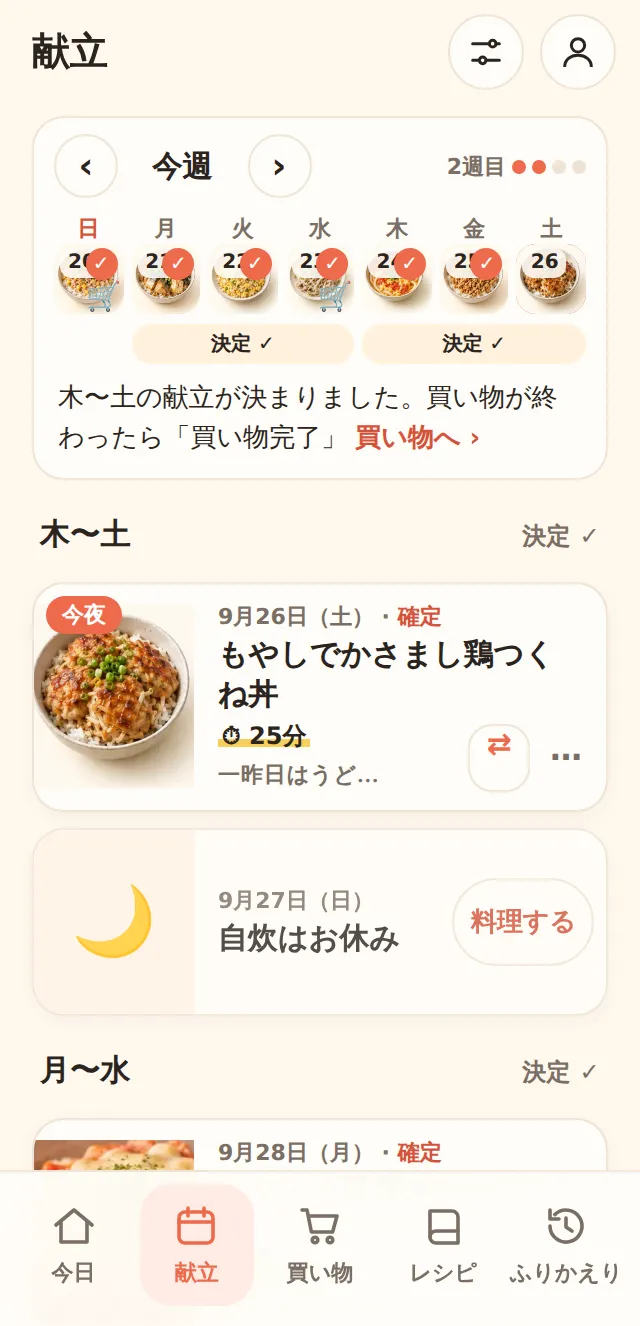
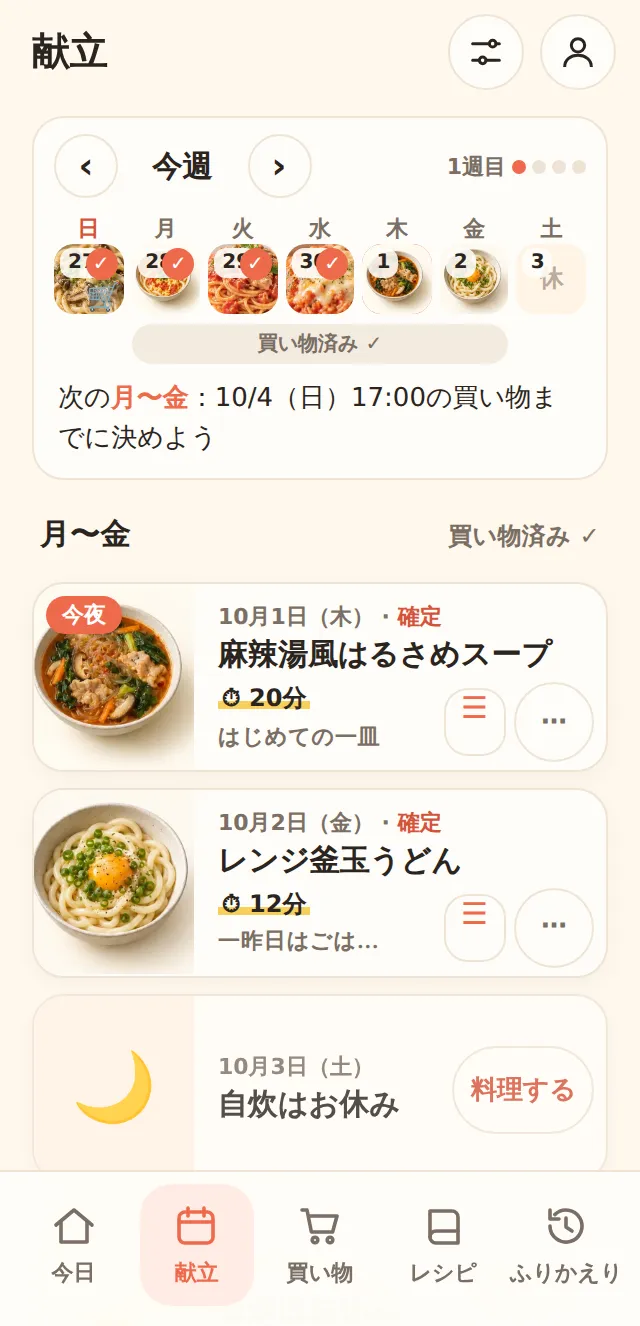
LP: match the current app
- Rhythms are listed as 平日5日（おすすめ）・1週間・3日ずつ, and plans run until the next shopping trip instead of three days.
- 選択 now covers untried and favourite dishes. Freshness ordering is included, and the skill check uses a photo plus the 10-question test.
- A new 「続けられる工夫」 section covers four features: eating out without wasting groceries, perishables first, 定番フォルダ with a ranking and weekday pins, and XP and badges.
- The old swipe persona quiz is replaced by the dinner type from setup (8 types, 6 stats, new art). It links to ?start=quick.
- Pricing no longer promises "free forever". The beta is free with starter tickets. A paid plan with a free trial is planned, never charged without consent, and backup export is always available.
- FAQ: families of 1–5+ are supported (dinners only for now), a new 作れない日 entry is added, the iPhone/Android home-screen steps are covered, and Google login is mentioned. The waitlist gains a 5人以上 option.
- The Today and Plan screenshots are retaken from the current app. The app's ⋯ button is a circle now instead of an oval.

Claude-Session: https://claude.ai/code/session_01StTAX8i8GaRevC5aWo9T5p

diff --git a/lp/index.html b/lp/index.html
@@ -4,7 +4,7 @@
     <meta charset="utf-8" />
     <meta name="viewport" content="width=device-width, initial-scale=1, viewport-fit=cover" />
     <title>リピごち | かぶらない、飽きない、また食べたい。ふたりの夜ごはん</title>
-    <meta name="description" content="最近食べたものと、ふたりの「また食べたい」を覚えて、買い物の日に合わせて、かぶらない夜ごはんを。スマホ1画面の買い物リスト、SNSのレシピ動画の保存まで。ふたり暮らし・ひとり暮らしの夜ごはんアプリ「リピごち」。公開のお知らせをメールで受け取れます。" />
+    <meta name="description" content="最近食べたもの、ふたりの「また食べたい」、料理の腕前を覚えて、買い物の日に合わせて、かぶらない夜ごはんを。傷みやすい食材から先に使う献立、スマホ1画面の買い物リスト、SNSのレシピ動画の保存まで。ひとり暮らしから家族まで使える夜ごはんアプリ「リピごち」。公開のお知らせをメールで受け取れます。" />
     <meta property="og:title" content="リピごち | かぶらない、飽きない、また食べたい。" />
     <meta property="og:description" content="最近食べたものと、ふたりの「また食べたい」を覚えて、買い物の日に合わせて、かぶらない夜ごはんを。いまのβ版は無料。" />
     <meta property="og:type" content="website" />
@@ -16,21 +16,21 @@
     <meta property="og:image:type" content="image/jpeg" />
     <meta name="twitter:card" content="summary_large_image" />
     <meta name="twitter:image" content="https://165cm.github.io/matagochi/lp/assets/ogp-20260924.jpg" />
-    <meta name="twitter:image:alt" content="今夜、これ食べたい。3問で、3日分の夜ごはんと買い物リスト" />
+    <meta name="twitter:image:alt" content="今夜、これ食べたい。次の買い物までの夜ごはんと、スマホ1画面の買い物リスト" />
     <meta name="theme-color" content="#fff8ee" />
     <link rel="canonical" href="https://165cm.github.io/matagochi/lp/" />
-    <link rel="icon" href="../icons/favicon-32.png?v=20260927-ratio1" />
+    <link rel="icon" href="../icons/favicon-32.png?v=20260927-lp1" />
     <link rel="preconnect" href="https://fonts.googleapis.com" />
     <link rel="preconnect" href="https://fonts.gstatic.com" crossorigin />
     <link rel="stylesheet" href="https://fonts.googleapis.com/css2?family=Zen+Maru+Gothic:wght@500;700;900&family=Klee+One:wght@600&display=swap" />
     <link rel="preload" as="image" href="assets/screen-today.webp" />
-    <link rel="stylesheet" href="styles.css?v=20260927-ratio1" />
+    <link rel="stylesheet" href="styles.css?v=20260927-lp1" />
   </head>
   <body>
     <header class="site-header">
       <div class="container header-inner">
         <a class="brand" href="#top" aria-label="リピごち トップへ">
-          <img class="brand-icon" src="../icons/icon-192.png?v=20260927-ratio1" width="40" height="40" alt="" /><span class="logo">リピごち</span>
+          <img class="brand-icon" src="../icons/icon-192.png?v=20260927-lp1" width="40" height="40" alt="" /><span class="logo">リピごち</span>
           <span class="hand brand-note">また、これ食べたい。</span>
         </a>
         <a class="button button-small" href="#waitlist"><span class="wide-only">公開の</span>お知らせ登録</a>
@@ -56,9 +56,9 @@
             <p class="beta-link small"><a class="text-link" href="../?start=quick">いまのβ版を、無料で試してみる →</a></p>
           </div>
           <div class="hero-visual">
-            <p class="hand note note-a" aria-hidden="true">一昨日うどんなら、<br />今日はごはんもの。</p>
+            <p class="hand note note-a" aria-hidden="true">一昨日パスタなら、<br />今日はごはんもの。</p>
             <figure class="phone phone-hero">
-              <img src="assets/screen-today.webp" width="640" height="1326" alt="リピごちの今日の画面。今夜の一品「もやしでかさまし鶏つくね丼」と、理由「一昨日はうどんだったので、ごはんものに」、作り方を見るボタン" fetchpriority="high" /><figcaption>いまのβ版の画面です</figcaption>
+              <img src="assets/screen-today.webp" width="640" height="1326" alt="リピごちの今日の画面。今夜の一品「豚こまキャベツ丼」と、理由「一昨日はパスタだったので、ごはんものに」、作り方を見るボタンと、今日は外食・中食にするボタン" fetchpriority="high" /><figcaption>いまのβ版の画面です</figcaption>
             </figure>
             <span class="sticker sticker-time" aria-hidden="true">🍜 → 🍚 かぶらない</span>
             <span class="sticker sticker-list" aria-hidden="true">😋 ふたりとも好き</span>
@@ -119,7 +119,7 @@
             <article>
               <span class="promise-icon" aria-hidden="true">🍝→🍚</span>
               <h3>最近食べたものを覚える</h3>
-              <p>麺・ごはん、肉・魚、和・洋・中。続かないように、ほどよく巡る3日分を提案します。</p>
+              <p>麺・ごはん、肉・魚、和・洋・中。続かないように、次の買い物までの献立をほどよく巡らせます。</p>
               <p class="hand promise-note">一昨日パスタなら、今日はごはんもの。</p>
             </article>
             <article>
@@ -146,12 +146,12 @@
           <h2 class="center">3ステップで、<span class="marker nobr">今夜が決まる。</span></h2>
 
           <article class="step">
-            <figure class="phone"><img src="assets/screen-plan.webp" width="640" height="1326" alt="献立の画面。今週のカレンダーに決まった料理の写真が並び、その下に買い物ごとの献立が1行ずつ並ぶ" loading="lazy" /><figcaption>いまのβ版の画面です</figcaption></figure>
+            <figure class="phone"><img src="assets/screen-plan.webp" width="640" height="1326" alt="献立の画面。今週のカレンダーに作った料理と決まった料理の写真が並び、その下に平日5日の献立が1日ずつ、選択とその他のボタンつきで並ぶ" loading="lazy" /><figcaption>いまのβ版の画面です</figcaption></figure>
             <div class="step-copy">
               <span class="step-no">1</span>
               <h3>買い物の日を決めたら、献立がそろう。</h3>
-              <p>「3日ずつ」「1週間」「平日だけ」から選ぶだけ。人数・調理時間・苦手な食材・料理の腕前に合わせて、次の買い物までの献立を提案します。気分じゃなければ、ワンタップで入れ替え。</p>
-              <p class="hand step-note">腕前は、10問の試験で。</p>
+              <p>「平日5日（おすすめ）」「1週間」「3日ずつ」からリズムを選ぶだけ。人数・調理時間・苦手な食材・料理の腕前に合わせて、次の買い物までの献立を提案します。傷みやすい食材の料理は、買い物のすぐあとに。気分じゃなければ「選択」から、まだ作っていない料理や好きな料理に。</p>
+              <p class="hand step-note">腕前は、料理の写真と10問の試験で。</p>
             </div>
           </article>
 
@@ -170,10 +170,44 @@
             <div class="step-copy">
               <span class="step-no">3</span>
               <h3>食べたら、ふたりで「また食べたい」。</h3>
-              <p>ひとりずつワンタップ。記録がたまるほど、次の献立がふたりの好みに近づきます。月ごとの「偏愛の一皿」も。</p>
+              <p>ひとりずつワンタップ。記録がたまるほど、次の献立がふたりの好みに近づきます。月ごとの「偏愛の一皿」も。作るたびに経験値がたまって、バッジや昇級試験も。</p>
               <p class="hand step-note">好きな一皿が、増えていく。</p>
             </div>
           </article>
+        </div>
+      </section>
+
+      <!-- 続けられる工夫 -->
+      <section class="promise keep" id="keep">
+        <div class="container">
+          <p class="kicker center">続けられる工夫</p>
+          <h2 class="center">むりなく、<br /><span class="marker nobr">飽きずに、ムダなく。</span></h2>
+          <div class="promise-grid promise-grid-4">
+            <article>
+              <span class="promise-icon" aria-hidden="true">🍽↪</span>
+              <h3>作れない日は、外食に</h3>
+              <p>「今日は外食・中食」をワンタップ。買ってあった料理は1日ずつ後ろへずれるので、材料をむだにしません。</p>
+              <p class="hand promise-note">たまには、息抜きも大事。</p>
+            </article>
+            <article>
+              <span class="promise-icon" aria-hidden="true">🥬⏱</span>
+              <h3>傷みやすい食材から先に</h3>
+              <p>もやし・葉もの・魚介などは、買い物のすぐあとの日に。献立の順番まで考えて、食べきれるように。</p>
+              <p class="hand promise-note">冷蔵庫の奥で、しなしなにしない。</p>
+            </article>
+            <article>
+              <span class="promise-icon" aria-hidden="true">📁🥇</span>
+              <h3>定番を、食べ比べ</h3>
+              <p>同じ料理のいろいろな作り方をフォルダにまとめて、作るたびにランキング。「毎週火曜は明太子パスタ」も。</p>
+              <p class="hand promise-note">いつもの一皿に、小さな発見。</p>
+            </article>
+            <article>
+              <span class="promise-icon" aria-hidden="true">🏅✨</span>
+              <h3>作るたびに、経験値</h3>
+              <p>晩ごはんを作ると経験値とバッジ。昇級試験に受かると、作れる料理が献立に増えていきます。</p>
+              <p class="hand promise-note">気づけば、レパートリーが増えている。</p>
+            </article>
+          </div>
         </div>
       </section>
 
@@ -217,6 +251,7 @@
               <li>主食・素材・気分の色分けタグで、すぐ絞り込み</li>
               <li>スクショからAIが下書き。確認してから保存</li>
               <li>YouTubeの再生リストからまとめて追加</li>
+              <li>手順の「▶」から、動画のその場面をすぐ再生</li>
               <li>最初から、すぐ作れるオリジナルレシピ入り</li>
             </ul>
           </div>
@@ -239,6 +274,7 @@
                 <label><input type="radio" name="household" value="ひとり" /><span>ひとり</span></label>
                 <label><input type="radio" name="household" value="ふたり" /><span>ふたり</span></label>
                 <label><input type="radio" name="household" value="3〜4人" /><span>3〜4人</span></label>
+                <label><input type="radio" name="household" value="5人以上" /><span>5人以上</span></label>
               </fieldset>
               <input class="wl-hp" type="text" name="website" tabindex="-1" autocomplete="off" aria-hidden="true" />
               <button class="button button-primary button-large" type="submit" data-cta="waitlist">公開をお知らせで受け取る</button>
@@ -258,20 +294,20 @@
         </div>
       </section>
 
-      <!-- 診断（シェア導線） -->
+      <!-- 晩ごはんタイプ（初回設定の中で） -->
       <section class="quiz">
         <div class="container quiz-card">
           <div class="quiz-copy">
-            <p class="kicker">1分診断</p>
+            <p class="kicker">はじめの設定で</p>
             <h2>あなたの<br /><span class="marker">夜ごはんタイプ</span>は？</h2>
-            <p>料理写真をスワイプして、二択に答えるだけ。8種類のキャラクターから、あなたのタイプがわかります。ふたりで診断して、好みの違いを楽しんでも。</p>
-            <a class="button button-dark" href="../?quiz=1" data-cta="quiz">診断してみる<span aria-hidden="true">›</span></a>
-            <p class="small muted">好みを楽しむ診断です。性格や健康状態の判定ではありません。</p>
+            <p>いまの1週間の夜ごはん、主食、ついいくお店、大事にしていること。答えていくと、8つのタイプから、あなたの夜ごはんタイプと、火力・時短・節約などの6つの能力がわかります。</p>
+            <a class="button button-dark" href="../?start=quick" data-cta="type">はじめてみる<span aria-hidden="true">›</span></a>
+            <p class="small muted">たのしむための診断です。性格や健康状態の判定ではありません。</p>
           </div>
-          <div class="persona-row">
-            <img src="../assets/persona/LLL.webp" width="200" height="200" alt="満腹ハムスター" loading="lazy" />
-            <img src="../assets/persona/RLR.webp" width="200" height="200" alt="盛り付けキツネ" loading="lazy" />
-            <img src="../assets/persona/LRR.webp" width="200" height="200" alt="台所のクマ博士" loading="lazy" />
+          <div class="persona-row type-row">
+            <img src="../assets/types/RKQ.webp" width="640" height="850" alt="雷速の丼ソードマン" loading="lazy" />
+            <img src="../assets/types/RAS.webp" width="640" height="850" alt="出汁の森ヒーラー" loading="lazy" />
+            <img src="../assets/types/CAQ.webp" width="640" height="850" alt="氷刃のレンジ魔導士" loading="lazy" />
           </div>
         </div>
       </section>
@@ -297,13 +333,13 @@
       <!-- 安心 -->
       <section class="trust" id="pricing">
         <div class="container">
-          <h2 class="center">いまは、<span class="marker">ぜんぶ無料。</span></h2>
+          <h2 class="center">いまのβ版は、<span class="marker">ぜんぶ無料。</span></h2>
           <div class="trust-grid">
-            <article><span aria-hidden="true">🆓</span><h3>無料ではじめられる</h3><p>保存・記録・バックアップの基本機能は、この先もずっと無料。</p></article>
-            <article><span aria-hidden="true">✉</span><h3>アプリは登録なし</h3><p>アプリはメールもパスワードも不要。ブラウザで開けばすぐ使えます。</p></article>
-            <article><span aria-hidden="true">🔒</span><h3>データは基本、端末の中</h3><p>同期やAI取り込みを使ったときだけ、必要なデータをサーバーへ送ります。</p></article>
+            <article><span aria-hidden="true">🆓</span><h3>無料ではじめられる</h3><p>いまはすべての機能を無料で。動画のAI読み取りなどに使うチケットも、はじめに無料で付いてきます。</p></article>
+            <article><span aria-hidden="true">✉</span><h3>アプリは登録なし</h3><p>メールもパスワードも不要。ブラウザで開けばすぐ使えます。機種変更に備えるなら、Googleでログインも。</p></article>
+            <article><span aria-hidden="true">🔒</span><h3>データは基本、端末の中</h3><p>家族との同期やAIを使ったときだけ、必要なデータをサーバーへ。スキル診断の料理写真は、判定したら保存しません。</p></article>
           </div>
-          <p class="center small muted">より多くの提案レシピやAI取り込み枠などの有料プランを準備中です。始める前に必ずお知らせし、同意なく課金することはありません。</p>
+          <p class="center small muted">正式版では、無料お試しつきの有料プランを予定しています。料金と内容は始める前に必ずお知らせし、同意なく課金することはありません。レシピと記録の書き出し（バックアップ）は、プランにかかわらずいつでもできます。</p>
         </div>
       </section>
 
@@ -316,11 +352,11 @@
           </details>
           <details>
             <summary>ふたり以上の家族でも使えますか？</summary>
-            <p>まずはひとり暮らしと、ふたりの食卓（親子・カップル・夫婦など）に合わせて作っています。3〜4人の家族向けの機能も、その後に広げていく予定です。待機リストで人数を教えていただけると、開発の参考になります。</p>
+            <p>使えます。何人分（1〜5人以上）かを選ぶと、材料をその人数分に換算します。家族それぞれの「また食べたい」や食べられないものも、献立に反映されます。いまは晩ごはんのみで、朝ごはん・お弁当は準備中です。</p>
           </details>
           <details>
             <summary>本当に無料ですか？</summary>
-            <p>いまは全機能を無料で提供しています。保存・記録・バックアップの基本機能はこの先も無料です。有料プランは価格や内容が決まる前にお知らせし、自動で課金に切り替えることはありません。</p>
+            <p>いまのβ版は、すべての機能を無料で提供しています。正式版では、無料お試しつきの有料プランを予定しています。料金と内容は始める前にお知らせし、お申し込みなしに課金されることはありません。レシピと記録の書き出し（バックアップ）は、いつでも無料でできます。</p>
           </details>
           <details>
             <summary>SNSのレシピ動画は、どうやって保存しますか？</summary>
@@ -331,12 +367,16 @@
             <p>設定の「ふたりで使う」から招待リンクを作って、LINEなどで送るだけです。相手がリンクを開くと、献立・レシピ・買い物リストが同じになります。「見るだけ」で参加して、食べたいものをリクエストする使い方もできます。</p>
           </details>
           <details>
+            <summary>作れない日があったら？</summary>
+            <p>「今日は外食・中食にする」を押すと、外食・テイクアウト・デリバリー・あるもので、から選べます。買ってあった料理は1日ずつ後ろにずれるので、材料をむだにしません。休みの曜日に作るか、次の自炊日まで持ち越すかも選べます。</p>
+          </details>
+          <details>
             <summary>アレルギーがあっても大丈夫？</summary>
             <p>食べられない食材を設定すると、その食材を含む料理は提案しません。ただし安全を保証するものではありません。市販品の原材料表示は必ずご自身で確認してください。</p>
           </details>
           <details>
             <summary>iPhoneでも使えますか？</summary>
-            <p>使えます。Safariで開いて、共有ボタンから「ホーム画面に追加」すると、アプリのように起動できます。</p>
+            <p>使えます。Safariで開いて、共有ボタンから「ホーム画面に追加」すると、アプリのように起動できます（iPhoneのChromeでも同じ手順で追加できます）。ホーム画面から使うと、記録が消えにくくなります。Androidは、ブラウザのメニューから「ホーム画面に追加」または「アプリをインストール」を選んでください。</p>
           </details>
           <details id="privacy">
             <summary>メールアドレスはどう扱われますか？</summary>
@@ -344,7 +384,7 @@
           </details>
           <details>
             <summary>アプリのデータはどこに保存されますか？</summary>
-            <p>基本はお使いの端末（ブラウザ）の中です。家族との同期やAI取り込みを使ったときは、対象のデータをサーバーへ送信します。機種変更に備えて、設定からバックアップを書き出せます。</p>
+            <p>基本はお使いの端末（ブラウザ）の中です。家族との同期やAI取り込みを使ったときは、対象のデータをサーバーへ送信します。機種変更に備えて、Googleでログインするか、設定からバックアップを書き出せます。</p>
           </details>
         </div>
       </section>

diff --git a/index.html b/index.html
@@ -22,14 +22,14 @@
     <meta name="apple-mobile-web-app-status-bar-style" content="default">
     <meta name="apple-mobile-web-app-title" content="リピごち">
     <link rel="canonical" href="https://165cm.github.io/matagochi/">
-    <link rel="manifest" href="manifest.webmanifest?v=20260927-ratio1">
-    <link rel="icon" type="image/png" sizes="32x32" href="icons/favicon-32.png?v=20260927-ratio1">
-    <link rel="apple-touch-icon" href="icons/apple-touch-icon.png?v=20260927-ratio1">
+    <link rel="manifest" href="manifest.webmanifest?v=20260927-lp1">
+    <link rel="icon" type="image/png" sizes="32x32" href="icons/favicon-32.png?v=20260927-lp1">
+    <link rel="apple-touch-icon" href="icons/apple-touch-icon.png?v=20260927-lp1">
     <title>リピごち</title>
     <link rel="preconnect" href="https://fonts.googleapis.com">
     <link rel="preconnect" href="https://fonts.gstatic.com" crossorigin>
     <link rel="stylesheet" href="https://fonts.googleapis.com/css2?family=Zen+Maru+Gothic:wght@500;700;900&family=Klee+One:wght@600&family=Shippori+Mincho+B1:wght@600;800&display=swap">
-    <link rel="stylesheet" href="styles.css?v=20260927-ratio1">
+    <link rel="stylesheet" href="styles.css?v=20260927-lp1">
   </head>
   <body>
     <div class="app-shell">
@@ -57,26 +57,26 @@
     <script>
       window.MATAGOCHI_API_BASE_URL = "https://matagochi-api-292190013809.us-central1.run.app";
     </script>
-    <script src="dinner-persona.js?v=20260927-ratio1"></script>
-    <script src="taste.js?v=20260927-ratio1"></script>
-    <script src="taste-ui.js?v=20260927-ratio1"></script>
-    <script src="starter-recipes.js?v=20260927-ratio1"></script>
-    <script src="skills.js?v=20260927-ratio1"></script>
-    <script src="aisles.js?v=20260927-ratio1"></script>
-    <script src="lifestyle.js?v=20260927-ratio1"></script>
-    <script src="daily-ui.js?v=20260927-ratio1"></script>
-    <script src="image-import.js?v=20260927-ratio1"></script>
-    <script src="playlist-import.js?v=20260927-ratio1"></script>
-    <script src="household.js?v=20260927-ratio1"></script>
-    <script src="skill-quiz.js?v=20260927-ratio1"></script>
-    <script src="cook-level.js?v=20260927-ratio1"></script>
-    <script src="cook-type.js?v=20260927-ratio1"></script>
-    <script src="plan-moves.js?v=20260927-ratio1"></script>
-    <script src="folders.js?v=20260927-ratio1"></script>
-    <script src="install.js?v=20260927-ratio1"></script>
-    <script src="tickets.js?v=20260927-ratio1"></script>
-    <script src="account.js?v=20260927-ratio1"></script>
-    <script src="discover.js?v=20260927-ratio1"></script>
-    <script src="app.js?v=20260927-ratio1"></script>
+    <script src="dinner-persona.js?v=20260927-lp1"></script>
+    <script src="taste.js?v=20260927-lp1"></script>
+    <script src="taste-ui.js?v=20260927-lp1"></script>
+    <script src="starter-recipes.js?v=20260927-lp1"></script>
+    <script src="skills.js?v=20260927-lp1"></script>
+    <script src="aisles.js?v=20260927-lp1"></script>
+    <script src="lifestyle.js?v=20260927-lp1"></script>
+    <script src="daily-ui.js?v=20260927-lp1"></script>
+    <script src="image-import.js?v=20260927-lp1"></script>
+    <script src="playlist-import.js?v=20260927-lp1"></script>
+    <script src="household.js?v=20260927-lp1"></script>
+    <script src="skill-quiz.js?v=20260927-lp1"></script>
+    <script src="cook-level.js?v=20260927-lp1"></script>
+    <script src="cook-type.js?v=20260927-lp1"></script>
+    <script src="plan-moves.js?v=20260927-lp1"></script>
+    <script src="folders.js?v=20260927-lp1"></script>
+    <script src="install.js?v=20260927-lp1"></script>
+    <script src="tickets.js?v=20260927-lp1"></script>
+    <script src="account.js?v=20260927-lp1"></script>
+    <script src="discover.js?v=20260927-lp1"></script>
+    <script src="app.js?v=20260927-lp1"></script>
   </body>
 </html>

diff --git a/sw.js b/sw.js
@@ -1,5 +1,5 @@
-const CACHE_NAME = "ripigochi-v83";
-const APP_VERSION = "20260927-ratio1";
+const CACHE_NAME = "ripigochi-v84";
+const APP_VERSION = "20260927-lp1";
 const CORE_ASSETS = [
   "./",
   "./index.html",
@@ -31,12 +31,12 @@ const CORE_ASSETS = [
   `./discover.js?v=${APP_VERSION}`,
   `./app.js?v=${APP_VERSION}`,
   `./image-import.js?v=${APP_VERSION}`,
-  "./manifest.webmanifest?v=20260927-ratio1",
-  "./icons/favicon-32.png?v=20260927-ratio1",
-  "./icons/icon-192.png?v=20260927-ratio1",
-  "./icons/icon-512.png?v=20260927-ratio1",
-  "./icons/icon-maskable-512.png?v=20260927-ratio1",
-  "./icons/apple-touch-icon.png?v=20260927-ratio1"
+  "./manifest.webmanifest?v=20260927-lp1",
+  "./icons/favicon-32.png?v=20260927-lp1",
+  "./icons/icon-192.png?v=20260927-lp1",
+  "./icons/icon-512.png?v=20260927-lp1",
+  "./icons/icon-maskable-512.png?v=20260927-lp1",
+  "./icons/apple-touch-icon.png?v=20260927-lp1"
 ];
 
 self.addEventListener("install", (event) => {

diff --git a/lp/styles.css b/lp/styles.css
@@ -363,3 +363,8 @@ body.is-registered .sticky-cta { display: none; }
 .quiz-skill .quiz-card { background: #fff1dc; }
 .skill-row img { border-radius: 50%; object-fit: cover; }
 .promise.together { background: #fff1e6; }
+/* 夜ごはんタイプの絵（縦長） */
+.type-row img { aspect-ratio: 3 / 4; border-radius: 18px; width: min(30%, 130px); }
+/* 続けられる工夫（4枚） */
+@media (min-width: 720px) { .promise-grid-4 { grid-template-columns: repeat(2, 1fr); } }
+@media (min-width: 1040px) { .promise-grid-4 { grid-template-columns: repeat(4, 1fr); } }

diff --git a/styles.css b/styles.css
@@ -3547,3 +3547,4 @@ body.has-page-title .brand-block { flex: 1 0 auto; }
 .rc-label { display: grid; justify-items: center; gap: 0; font-size: 10.5px; line-height: 1.25; }
 .rc-label span { font-size: 16px; line-height: 1.1; }
 @media (max-width: 374px) { .rc-label { font-size: 9.5px; } .rc-label span { font-size: 14px; } }
+.plan-controls .plan-more-btn { flex: none; width: 40px; height: 40px; min-width: 0; min-height: 0; padding: 0; border-radius: 50%; aspect-ratio: 1; }

diff --git a/app.js b/app.js
@@ -8,7 +8,7 @@ const SYNC_DEBOUNCE_MS = 8000;
 const SYNC_ROOM_ID_PATTERN = /^[a-f0-9]{64}$/;
 
 const defaultFamily = ["自分"];
-const APP_VERSION = "20260927-ratio1";
+const APP_VERSION = "20260927-lp1";
 const emptyDraft = { sourceServings: null, catalog: null, title: "", videoUrl: "", source: "", author: "", mealType: "dinner", caption: "", note: "" };
 const defaultRepeatCycle = "weekly";
 const repeatOptions = [
